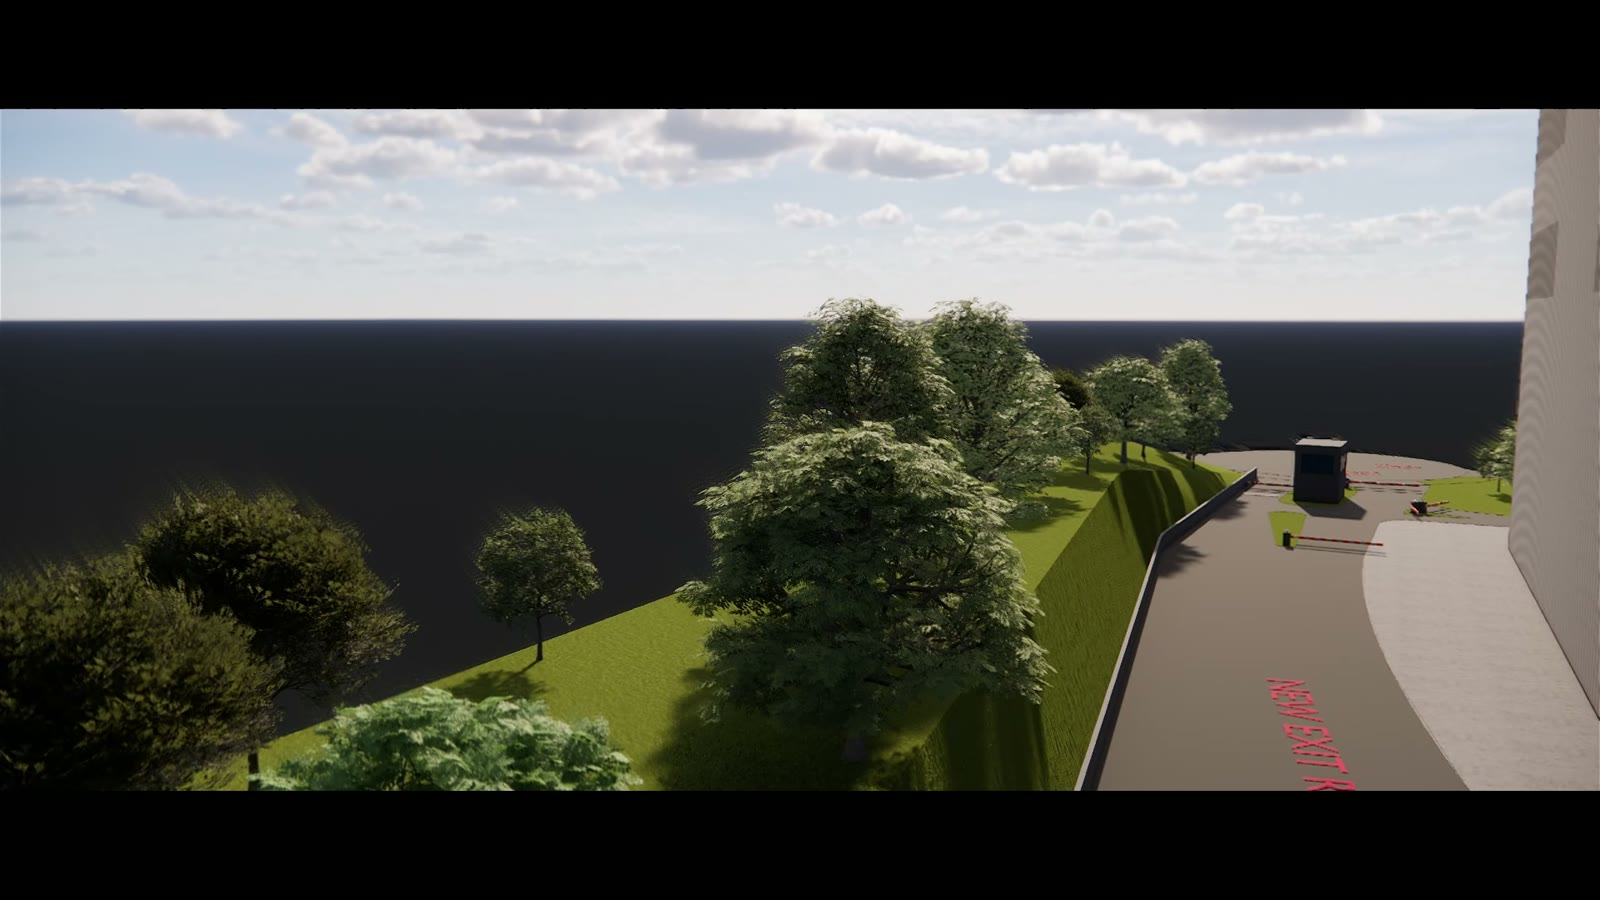
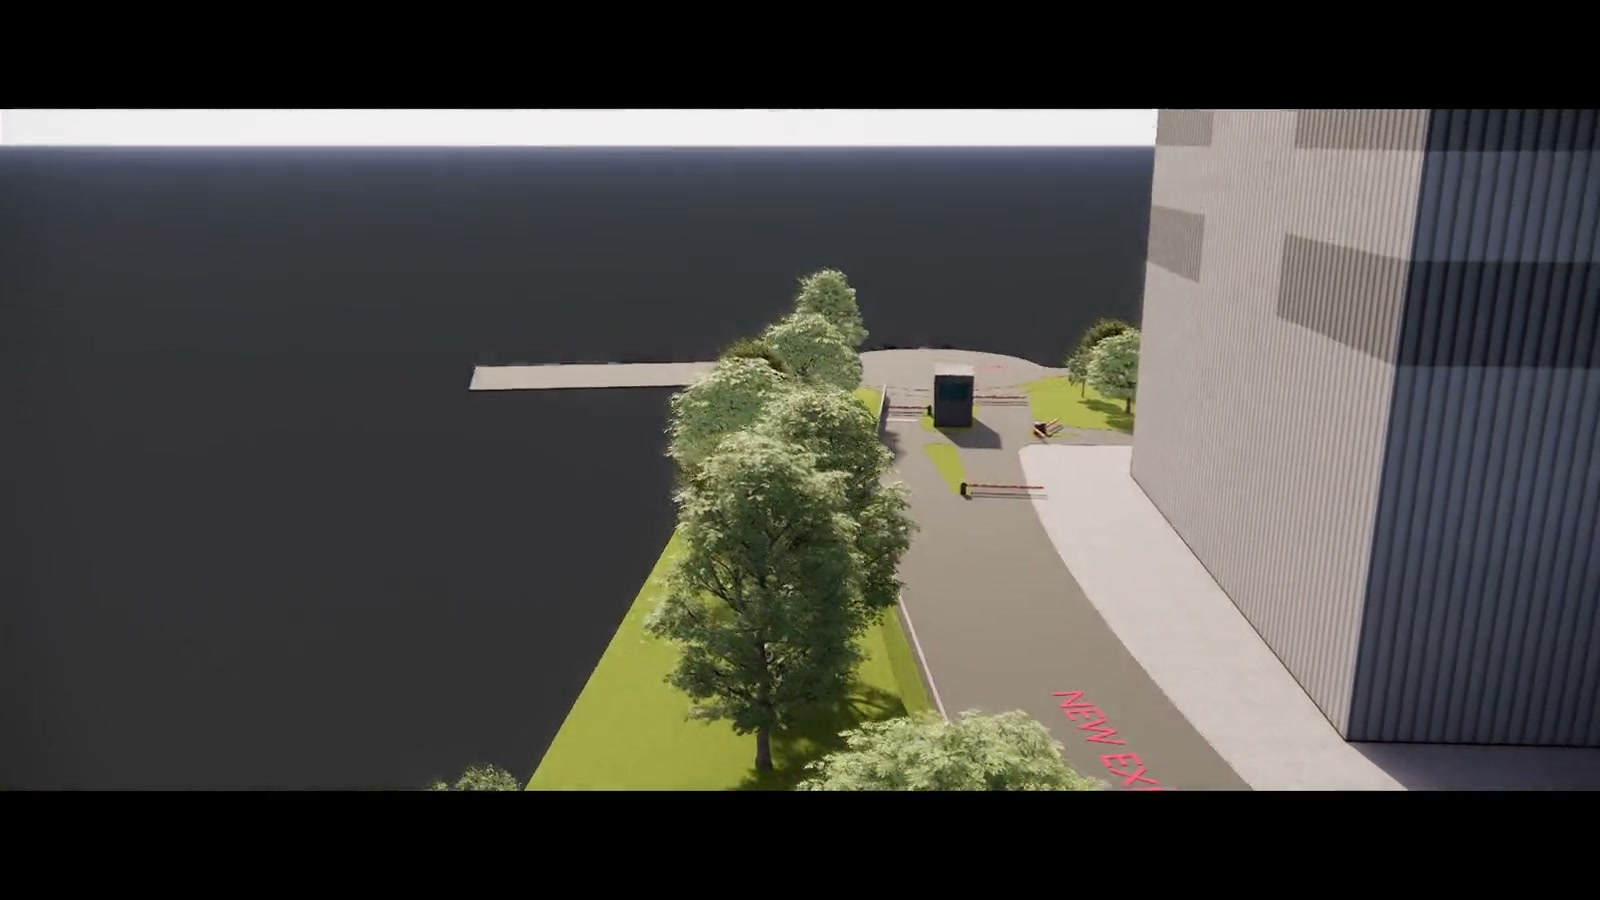
feat: seamless hero video start with cross-fade over lit poster
The hero clip fades up from pure black, so the previous poster (a lit
frame) snapped to black the instant autoplay began, then faded back up —
a visible jitter on load.

Hold a lit poster frame as an underlay and cross-fade the video in
(opacity 0 -> 1) once it can play, masking the black intro. Regenerate
hero-poster.jpg from a lit frame (~2.5s) so the underlay matches the clip.

Guard against the SSR autoplay race where `canplay` fires before React
attaches the handler during hydration: a mount effect re-checks readyState
so the fade-in never stays stuck hidden.

diff --git a/portfolio/components/hero.tsx b/portfolio/components/hero.tsx
@@ -1,6 +1,6 @@
 "use client";
 
-import { useEffect, useRef } from "react";
+import { useEffect, useRef, useState } from "react";
 import { gsap } from "gsap";
 import { ScrollTrigger } from "gsap/ScrollTrigger";
 import { mediaUrl } from "@/lib/utils";
@@ -21,6 +21,26 @@ export default function Hero() {
   const subheadRef = useRef<HTMLParagraphElement>(null);
   const ctasRef = useRef<HTMLDivElement>(null);
   const proofRef = useRef<HTMLDivElement>(null);
+
+  // Hero clip fades up from black. We hold a lit poster frame underneath and
+  // cross-fade the video in once it can play, so the black intro never shows.
+  const videoRef = useRef<HTMLVideoElement>(null);
+  const [videoReady, setVideoReady] = useState(false);
+
+  // The <video autoPlay> is server-rendered, so its `canplay` can fire before
+  // React attaches the handler during hydration. Re-check readyState on mount
+  // (and keep a listener) so the fade-in never gets stuck hidden.
+  useEffect(() => {
+    const v = videoRef.current;
+    if (!v) return;
+    if (v.readyState >= 3) {
+      setVideoReady(true);
+      return;
+    }
+    const onReady = () => setVideoReady(true);
+    v.addEventListener("canplay", onReady);
+    return () => v.removeEventListener("canplay", onReady);
+  }, []);
 
   useEffect(() => {
     const section = sectionRef.current;
@@ -78,7 +98,21 @@ export default function Hero() {
         ref={stageRef}
         style={{ height: "100svh", overflow: "hidden", position: "relative", display: "flex", flexDirection: "column" }}
       >
+        {/* Lit poster underlay — shown instantly, stays visible while the video
+            cross-fades in on top, masking the clip's fade-up-from-black intro. */}
+        <div
+          aria-hidden="true"
+          style={{
+            position: "absolute",
+            inset: 0,
+            zIndex: 0,
+            backgroundImage: "url(/projects/hero-poster.jpg)",
+            backgroundSize: "cover",
+            backgroundPosition: "center",
+          }}
+        />
         <video
+          ref={videoRef}
           autoPlay
           muted
           loop
@@ -86,7 +120,17 @@ export default function Hero() {
           preload="metadata"
           poster="/projects/hero-poster.jpg"
           aria-hidden="true"
-          style={{ position: "absolute", inset: 0, width: "100%", height: "100%", objectFit: "cover", zIndex: 0 }}
+          onCanPlay={() => setVideoReady(true)}
+          style={{
+            position: "absolute",
+            inset: 0,
+            width: "100%",
+            height: "100%",
+            objectFit: "cover",
+            zIndex: 0,
+            opacity: videoReady ? 1 : 0,
+            transition: "opacity 1200ms ease",
+          }}
         >
           <source src={mediaUrl("projects/hero-bg.mp4")} type="video/mp4" />
         </video>
